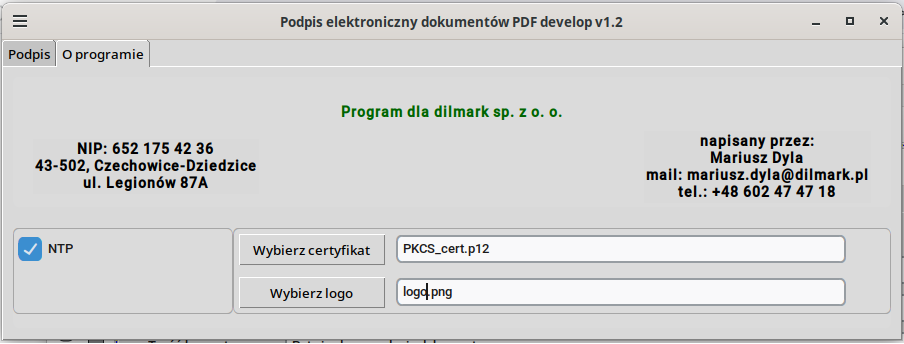
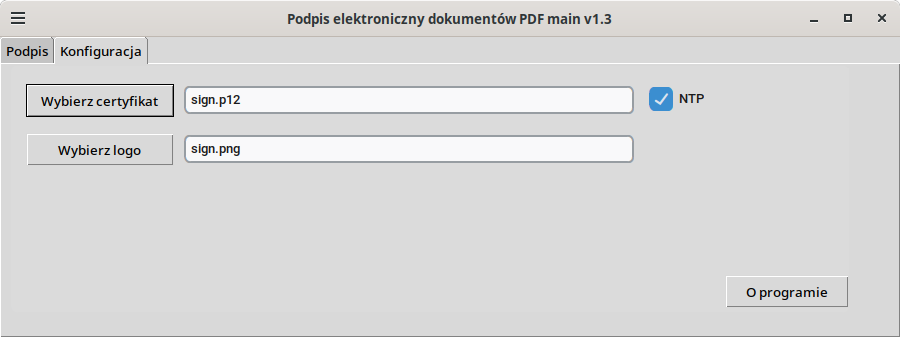
Update screenshots

diff --git a/utils/version.py b/utils/version.py
@@ -1,2 +1,2 @@
 BRANCH = 'main'
-VERSION = 'v1.2'
+VERSION = 'v1.3'
